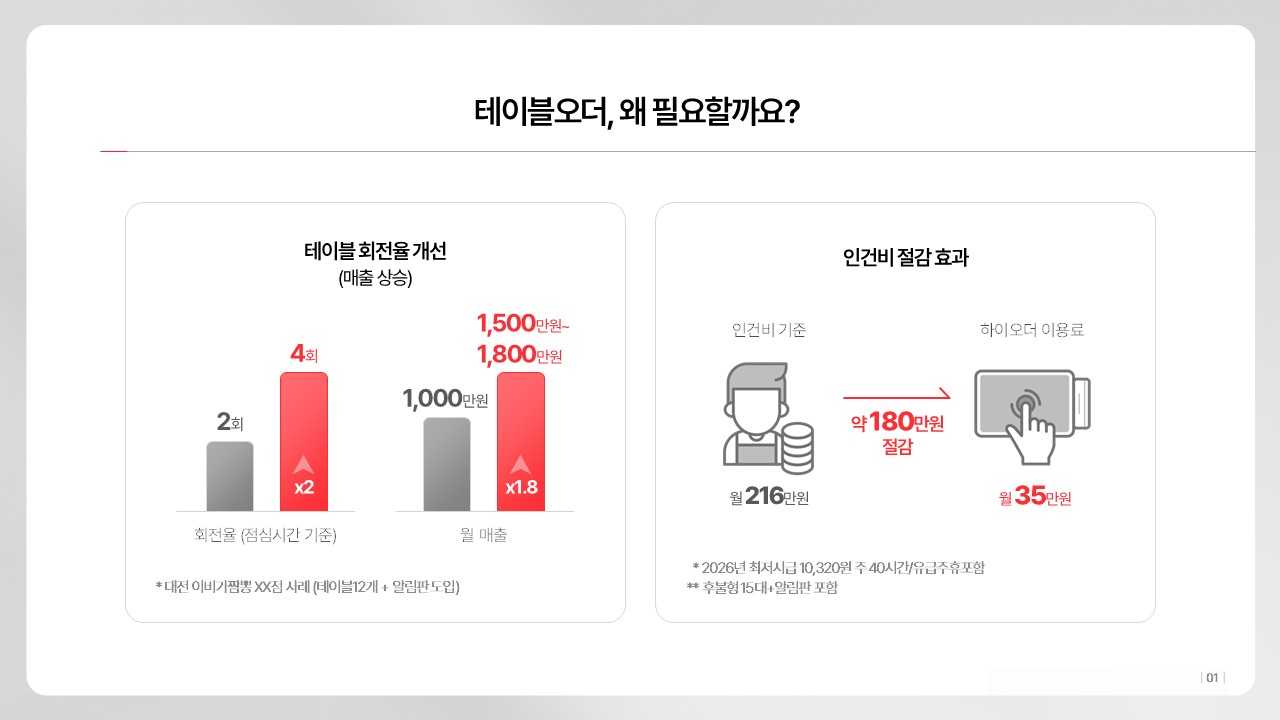
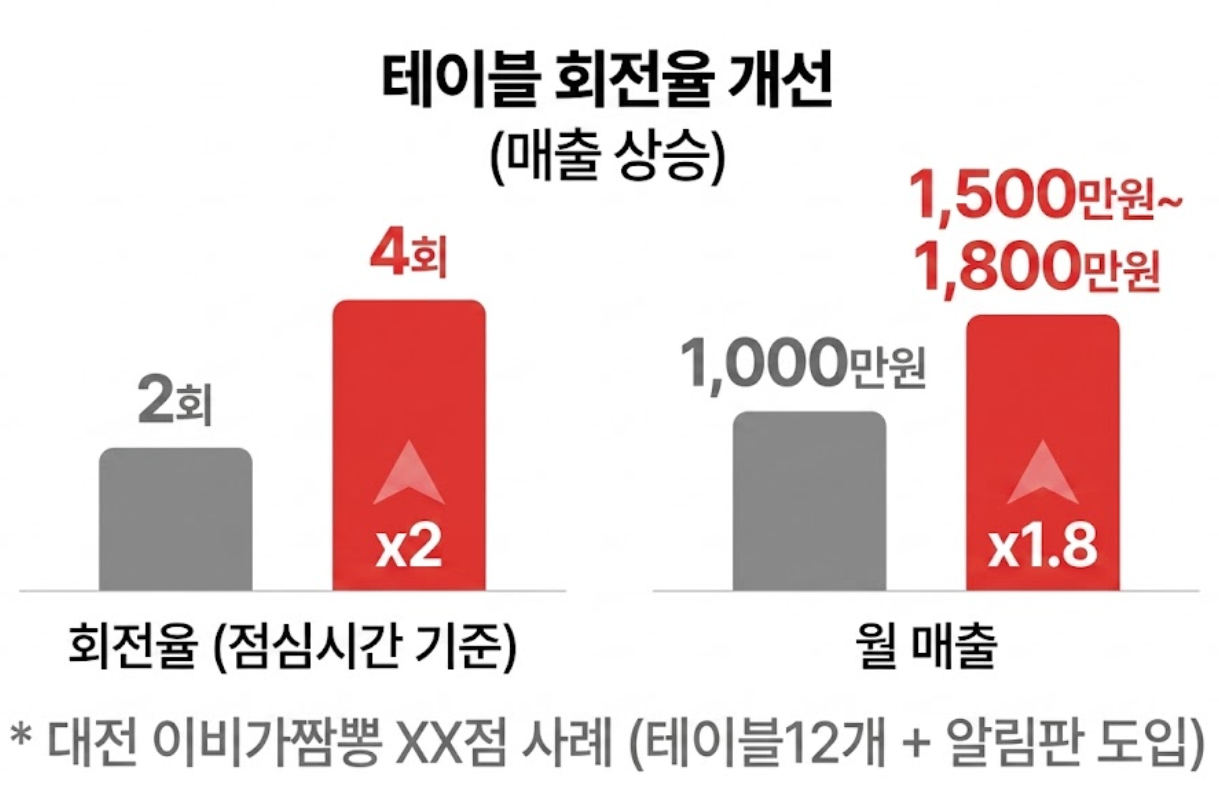
1

diff --git a/document/showroom/appweb.html b/document/showroom/appweb.html
@@ -164,7 +164,7 @@
             <div class="content-box">
                 <div class="title-group">
                     <div class="section-num">02</div>
-                    <div class="main-title">우리 가게 하이오더<br>도입하면 가격은 얼마일까?</div>
+                    <div class="main-title">이비가짬뽕의 매출 1.8배 상승 비결,<br>사장님의 매장에도 당장 적용 가능합니다.</div>
                 </div>
             </div>
             <div class="window-frame">
@@ -177,11 +177,11 @@
             <div class="content-box">
                 <div class="title-group">
                     <div class="section-num">03</div>
-                    <div class="main-title">하이오더 특장점<br>테이블오더, 왜 필요할까요?</div>
+                    <div class="main-title">인건비 걱정 없는<br>스마트 매장의 시작, 하이오더</div>
                 </div>
             </div>
             <div class="window-frame">
-                <div class="window-image" style="background-image: url('https://kt-synergy.com/assets/image/showroom/하이오더와함께하는브랜드\ \(2\).jpg');"></div>
+                <div class="window-image" style="background-image: url('https://kt-synergy.com/assets/image/showroom/하이오더와함께하는브랜드\ \(3\).jpg');"></div>
             </div>
         </div>
 
